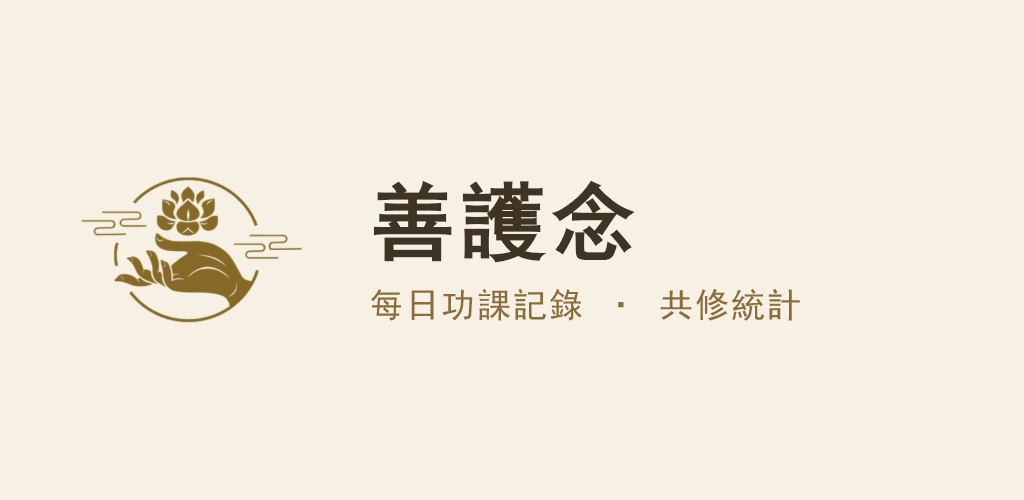
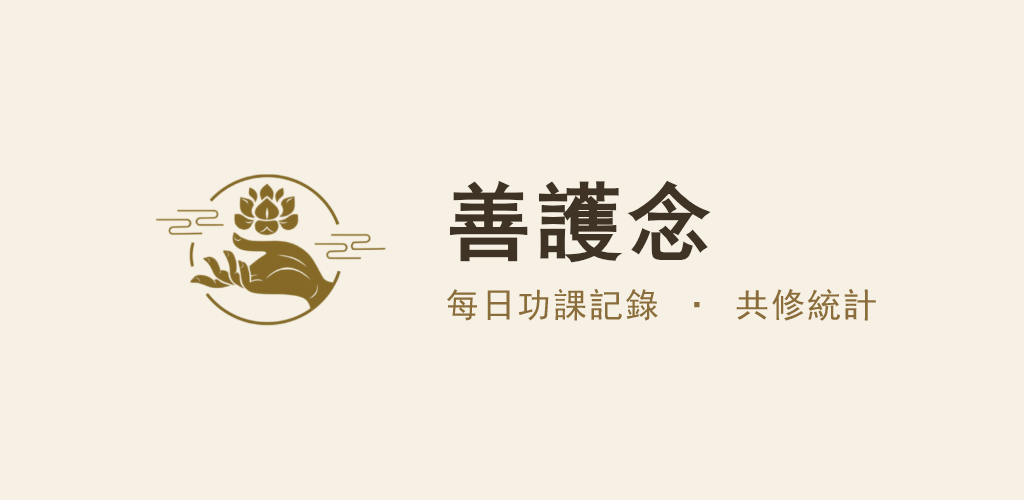
Play feature graphic 构图居中
原版整体偏左、右侧空一块;Play 在不同展示位会按不同比例裁切两侧,
重要内容居中更安全。徽记 240→250,与文字间距 56→48。

Changed region(s): [[0.0938, 0.33, 0.875, 0.66]]

diff --git a/app/tool/screenshots/store_screenshots_test.dart b/app/tool/screenshots/store_screenshots_test.dart
@@ -267,11 +267,13 @@ void _brandAssets() {
         home: Material(
           color: paper,
           child: Padding(
-            padding: const EdgeInsets.symmetric(horizontal: 72),
+            padding: const EdgeInsets.symmetric(horizontal: 64),
             child: Row(
+              // 整体居中:Play 在不同位置会按不同比例裁切两侧,重要内容留在中间更安全
+              mainAxisAlignment: MainAxisAlignment.center,
               children: [
-                Image.memory(logo, width: 240, height: 240, fit: BoxFit.contain),
-                const SizedBox(width: 56),
+                Image.memory(logo, width: 250, height: 250, fit: BoxFit.contain),
+                const SizedBox(width: 48),
                 Column(
                   mainAxisAlignment: MainAxisAlignment.center,
                   crossAxisAlignment: CrossAxisAlignment.start,
